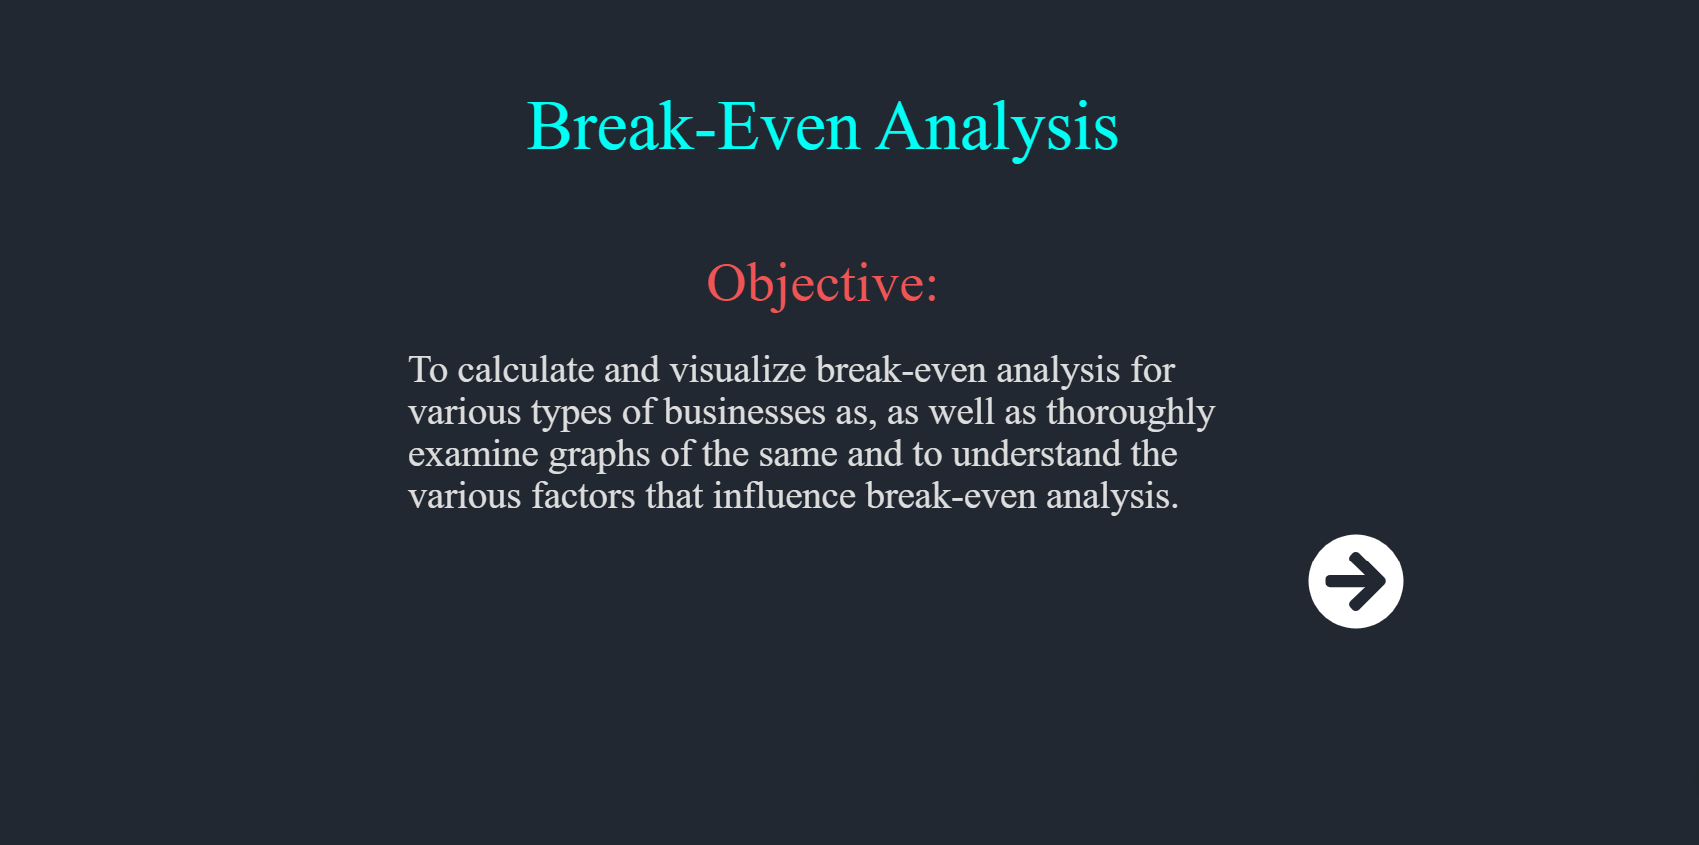
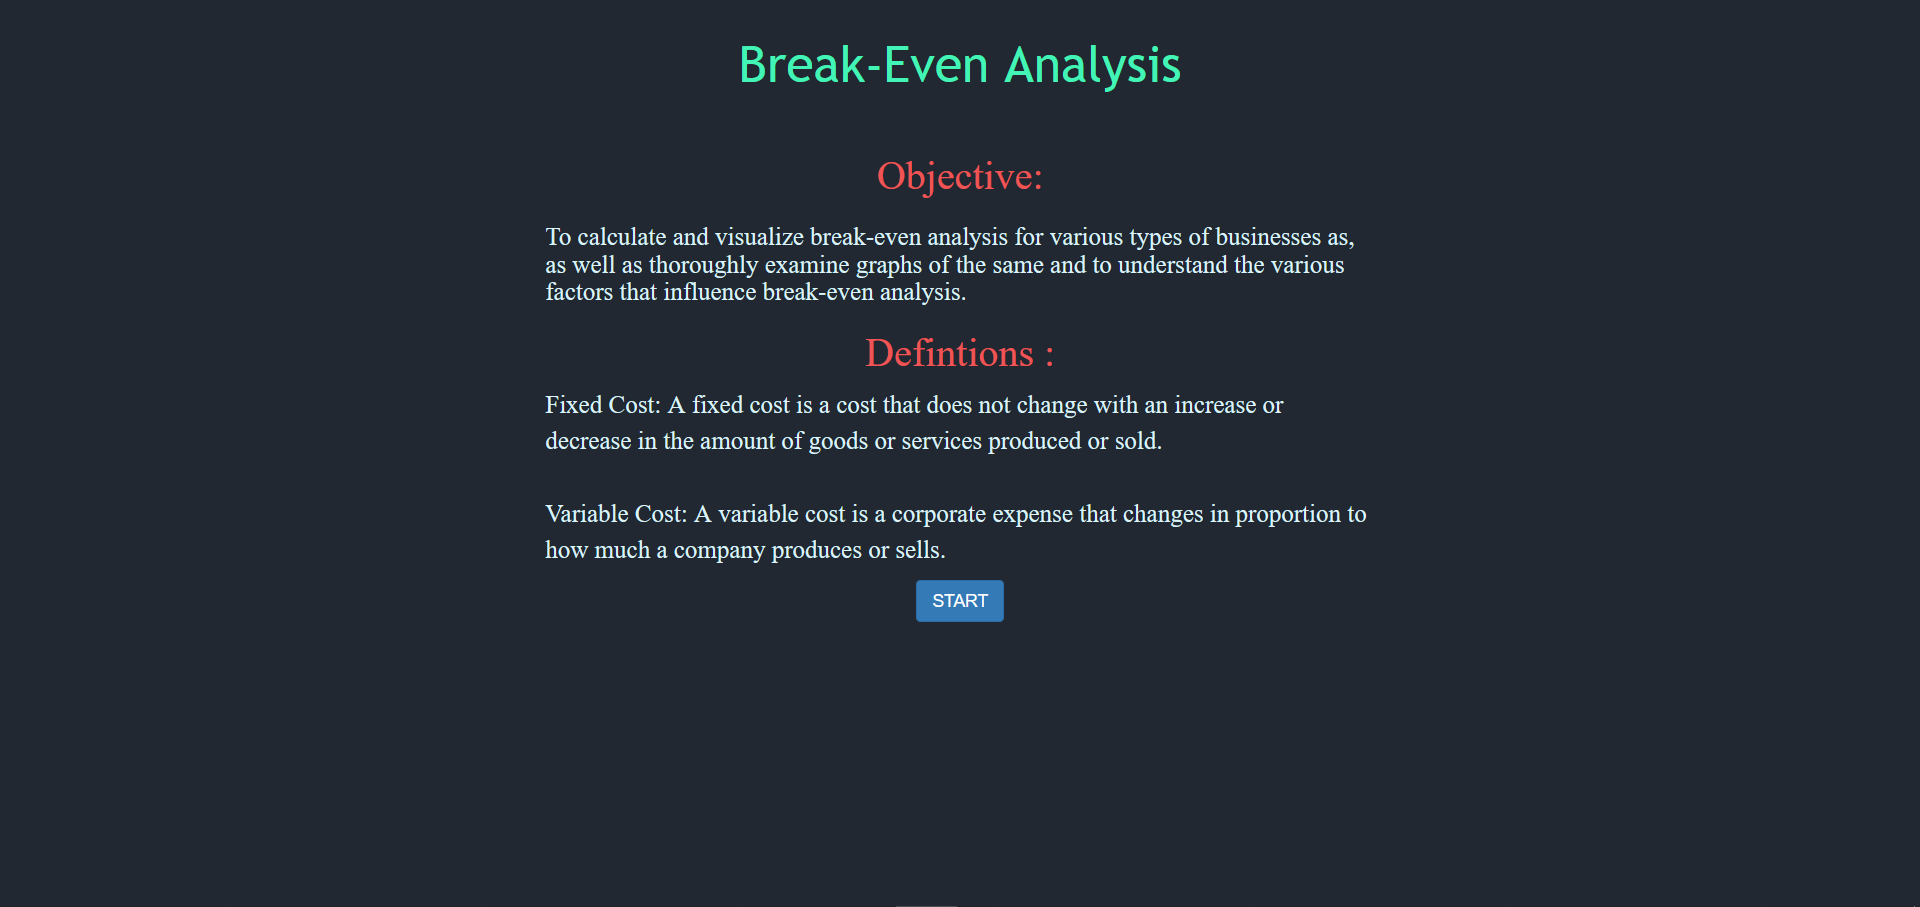
updating procedure and storyboard

diff --git a/Break_Even/experiment/procedure.md b/Break_Even/experiment/procedure.md
@@ -4,14 +4,21 @@
 
 2. Click "Submit" button to verify the answers given, click on simulator button to skip the test and go to simulator.<br>
 <!-- <img src="images/"><br> -->
-3. Read the objective and click on the "Next" button to proceed.<br>
+3. Read the objective and definitons and click on the "Start" button to proceed.<br>
 <img src="images/image1.png"><br>
-4. Understand the definitions and click on the "Next" button<br>
+4. Click on "calculating total fixed cost and variable cost", input the values and click on "Submit"<br>
 <img src="images/image2.png"><br>
-5. Input the values of fixed cost and variable cost, then click on the "Next" button.<br>
+5. Click on "calculating total revenue and net profit" and click on the "Formulae" button to get formulas<br>
 <img src="images/image3.png"><br>
-6. Input the values of selling price and quantity sold, then click on the NEXT button.<br>
+6. Input the values of selling price and quantity and calculate all the values and click on "Submit"<br>
 <img src="images/image4.png"><br>
-7. Analyse the graph and input values to replot the graph and visualize the effect of each variable on the graph.<br>
+7. Click on "Results" to check all the calculated values.<br>
 <img src="images/image5.png"><br>
+8. Click on "plotting the break-even analysis graph" and analyse the graph.<br>
+<img src="images/image6.png"><br>
+9. Input the values to replot the graph and visualize the effects of each variable on the break-even point and click on "Submit" button.<br>
+<img src="images/image7.png"><br>
+10. Click on "Conclusion" and understand the conclusions
+<img src="images/image8.png"><br>
+
 
